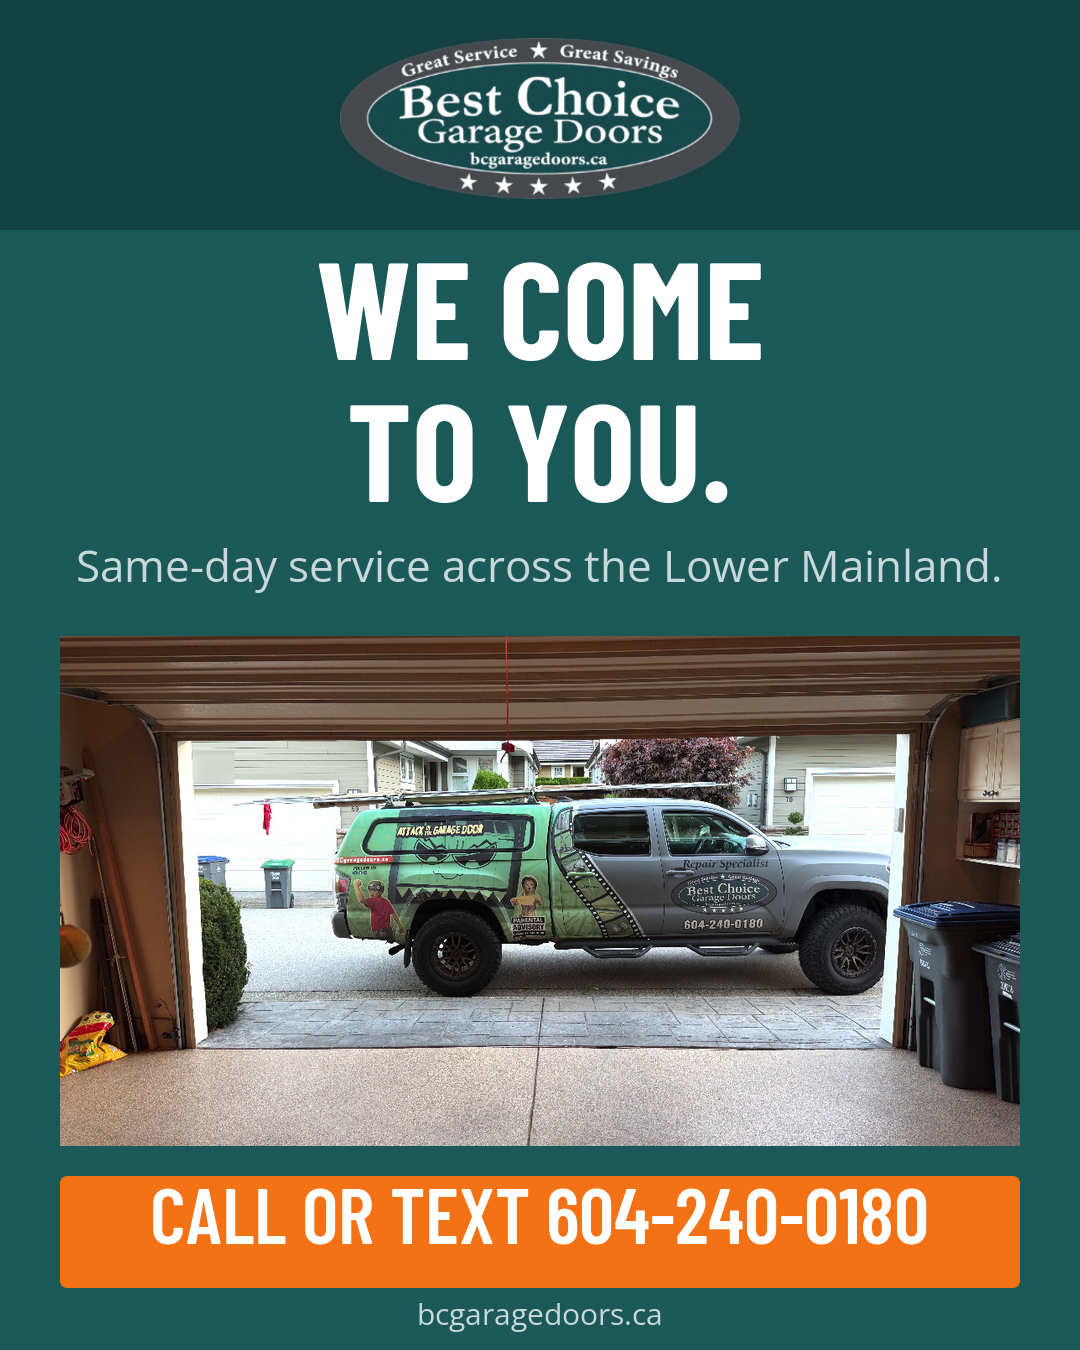
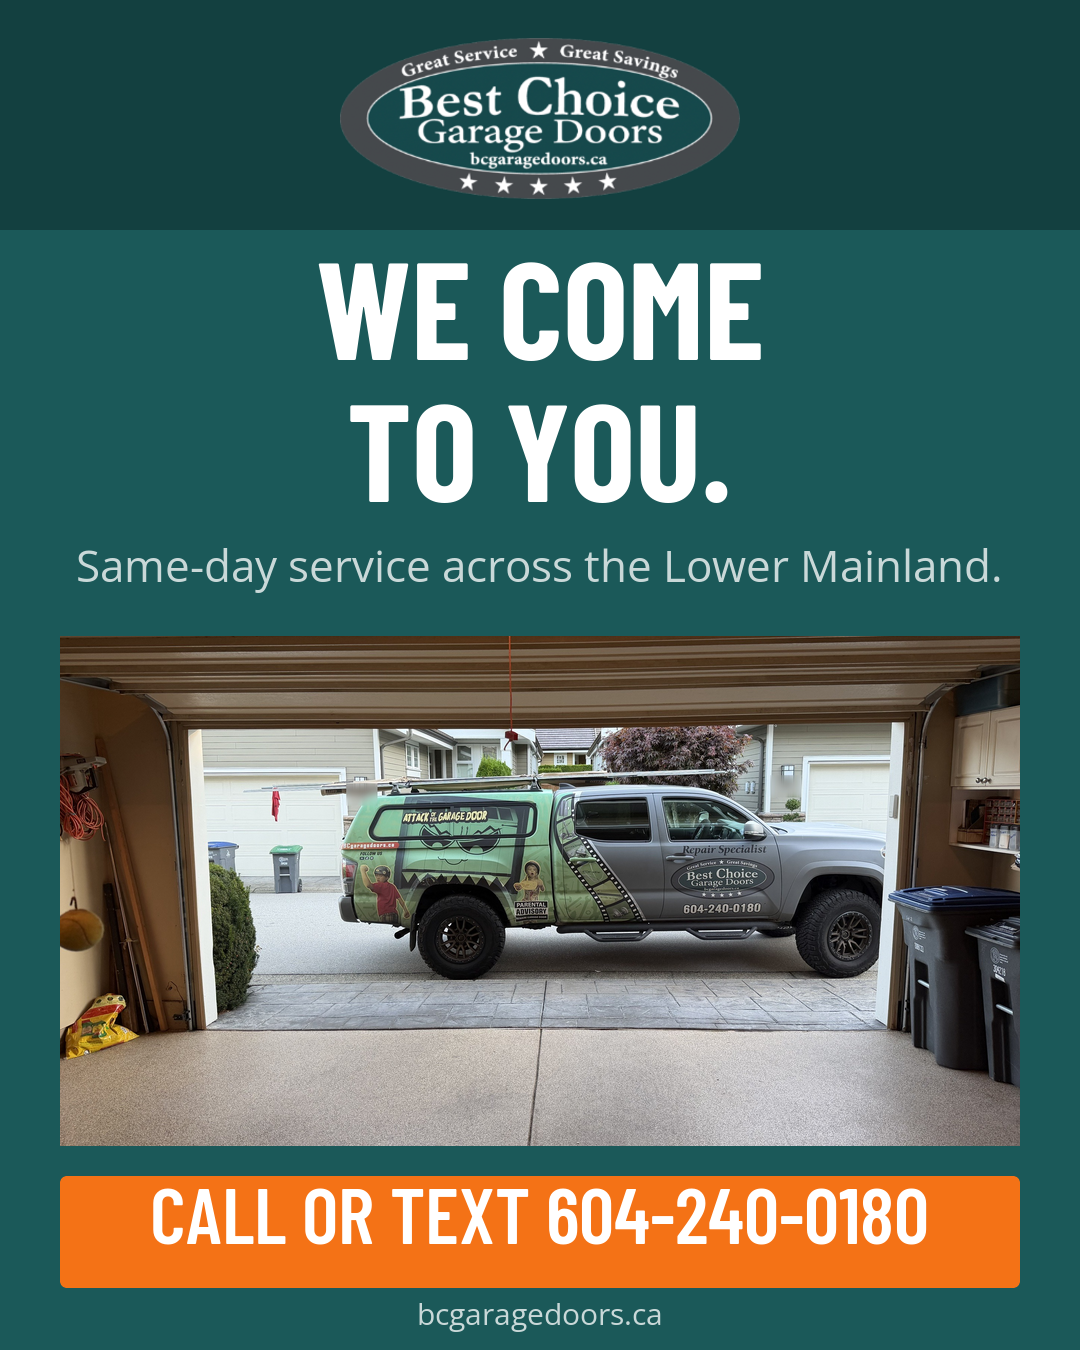
marketing: full-res garage photo, house numbers blurred, metadata stripped
Claude-Session: https://claude.ai/code/session_0165Mau5yUP12mqZosESkrCs

Changed region(s): [[0.0306, 0.4667, 0.9472, 0.8711]]

diff --git a/marketing/posts/build.py b/marketing/posts/build.py
@@ -39,7 +39,7 @@ POSTS = {
  'review-pamela': dict(head='“OLD SCHOOL\nWORK ETHIC.”', sub='Called on a Saturday, there within hours.', stars=True,
                    card='Ben just finished fixing our garage door. We called on a Saturday and he arrived within a couple of hours. Great guy, wonderful attitude and old school work ethic! Highly recommend!', who='Pamela Sunshine, Google review'),
  'we-come-to-you': dict(head='WE COME\nTO YOU.', sub='Same-day service across the Lower Mainland.',
-   photo='site/truck-from-garage.jpg', crop=(1145, 608, 0, 30)),
+   photo='site/truck-from-garage.jpg', crop=(2576, 1370, 0, 52)),
  'svc-cable': dict(head='CABLES LAST\n8 TO 15 YEARS.', sub='In the Lower Mainland they can wear faster.',
    card='Steel cables stretch, fray and weaken, often with no warning until they snap. Past 7 to 10 years, have them inspected.', who='Cable replacement'),
  'svc-rollers': dict(head='YOUR DOOR RIDES\nON ITS ROLLERS.', sub='Nylon rollers are strong and quiet.',
